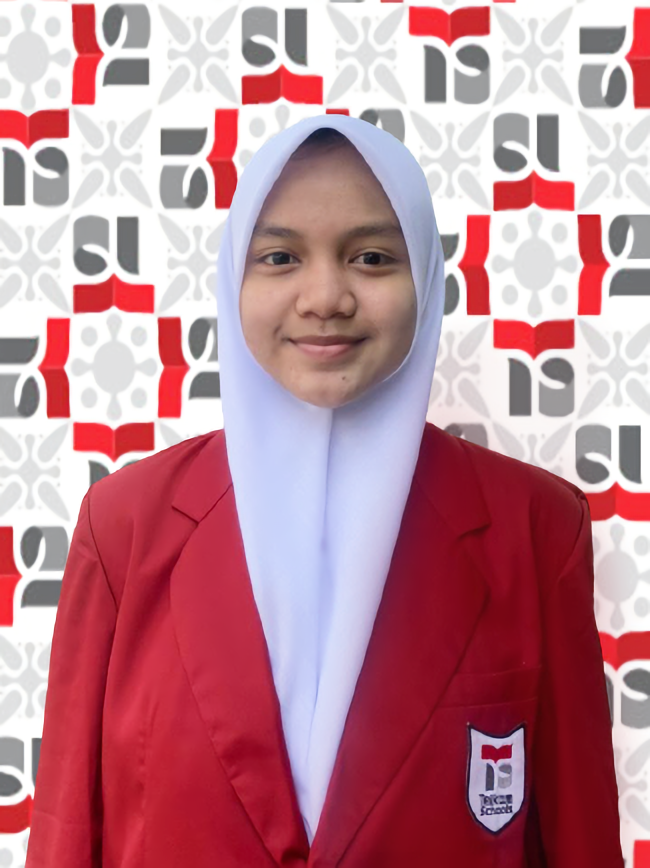
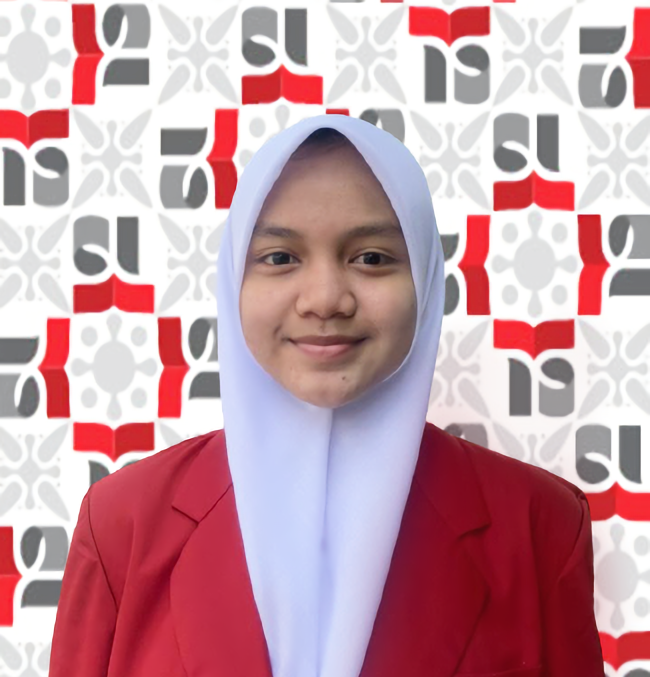
fix team photo

diff --git a/about.html b/about.html
@@ -95,7 +95,7 @@
             <div class="content">
               <div class="card-container">
                 <div class="card">
-                  <img src="assets/member1.jpg" alt="" />
+                  <img src="assets/rayhan.jpg" alt="" />
                   <div class="title-card">
                     <h1>Rayhan Atmadja</h1>
                     <p>Probolinggo, Indonesia</p>
@@ -109,7 +109,7 @@
                   </div>
                 </div>
                 <div class="card">
-                  <img src="assets/elia.jpg" alt="" />
+                  <img src="assets/elia.png" alt="" />
                   <div class="title-card">
                     <h1>Elia Sari</h1>
                     <p>Blitar, Indonesia</p>
